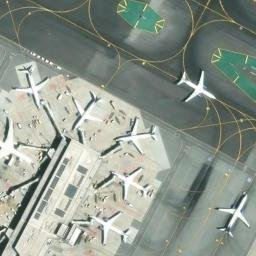
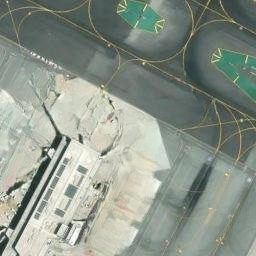
update: inpainting results with DOTA OBB model + zoomed comparisons
Regenerated all 9 airport inpainting outputs using the new DOTA-trained
OBB detection model. Added zoomed comparison images for 5 airports.
Updated registration notebook and inpainter with improvements.

diff --git a/app/frontend/dist/index.html b/app/frontend/dist/index.html
@@ -13,7 +13,7 @@
     <link rel="preconnect" href="https://a.tile.openstreetmap.org" crossorigin />
     <link rel="preconnect" href="https://b.tile.openstreetmap.org" crossorigin />
     <!-- Leaflet CSS is bundled locally via npm (imported in main.tsx) -->
-    <script type="module" crossorigin src="/assets/index-C06Ce4In.js"></script>
+    <script type="module" crossorigin src="/assets/index-Diz6R3oK.js"></script>
     <link rel="modulepreload" crossorigin href="/assets/leaflet-Bx2Q2iyp.js">
     <link rel="modulepreload" crossorigin href="/assets/three-W2DJ3NlB.js">
     <link rel="stylesheet" crossorigin href="/assets/index-CL9xZ0s6.css">

diff --git a/databricks/notebooks/register_inpainting_model.py b/databricks/notebooks/register_inpainting_model.py
@@ -11,7 +11,7 @@
 
 # COMMAND ----------
 
-# MAGIC %pip install ultralytics>=8.0 opencv-python-headless>=4.8 torch torchvision pillow mlflow pydantic>=2.5 pyyaml
+# MAGIC %pip install ultralytics>=8.0 opencv-python-headless>=4.8 torch torchvision pillow mlflow pydantic>=2.5 pyyaml simple-lama-inpainting
 
 # COMMAND ----------
 
@@ -134,7 +134,7 @@ with tempfile.TemporaryDirectory() as tmp:
         "lama_weights_dir": LAMA_WEIGHTS_DIR,
         "lama_weights_file": LAMA_WEIGHTS_FILE,
         "confidence_threshold": 0.15,
-        "mask_dilation_px": 15,
+        "mask_dilation_px": 10,
     }
     with open(config_path, "w") as f:
         json.dump(config, f, indent=2)
@@ -150,7 +150,7 @@ with tempfile.TemporaryDirectory() as tmp:
             "pip",
             {
                 "pip": [
-                    "iopaint>=1.4",
+                    "simple-lama-inpainting",
                     "ultralytics>=8.0",
                     "opencv-python-headless>=4.8",
                     "torch>=2.0",
@@ -200,29 +200,47 @@ with tempfile.TemporaryDirectory() as tmp:
             from ultralytics import YOLO
             self._yolo = YOLO(self._yolo_weights)
 
-            # Load LaMa via IOPaint if available, else direct
+            # Load LaMa inpainting model — try simple-lama-inpainting first,
+            # then IOPaint, then OpenCV TELEA as last resort
+            self._inpaint_backend = None
+
+            # Option 1: simple-lama-inpainting (lightweight, just torch)
             try:
-                from iopaint.model_manager import ModelManager
-                self._inpainter = ModelManager(name="lama", device=torch.device(self._device))
-                self._use_iopaint = True
-            except Exception:
-                # Fallback: load LaMa directly
-                self._use_iopaint = False
-                if self._lama_weights and os.path.exists(self._lama_weights):
-                    self._lama_state = torch.load(self._lama_weights, map_location=self._device, weights_only=False)
-                else:
-                    self._lama_state = None
+                from simple_lama_inpainting import SimpleLama
+                self._simple_lama = SimpleLama(device=torch.device(self._device))
+                self._inpaint_backend = "simple_lama"
+                print(f"simple-lama-inpainting loaded (device={self._device})")
+            except Exception as e:
+                print(f"simple-lama-inpainting unavailable: {e}")
+
+            # Option 2: IOPaint ModelManager
+            if self._inpaint_backend is None:
+                try:
+                    from iopaint.model_manager import ModelManager
+                    self._iopaint = ModelManager(name="lama", device=torch.device(self._device))
+                    self._inpaint_backend = "iopaint"
+                    print(f"IOPaint LaMa loaded (device={self._device})")
+                except Exception as e:
+                    print(f"IOPaint unavailable: {e}")
+
+            # Option 3: OpenCV TELEA fallback
+            if self._inpaint_backend is None:
+                self._inpaint_backend = "cv2"
+                print("Using OpenCV TELEA inpainting as fallback")
 
         def _inpaint(self, image, mask):
             import numpy as np
-            if self._use_iopaint:
-                return self._inpainter(image, mask)
-            elif self._lama_state is not None:
-                # Simple OpenCV inpainting fallback if LaMa can't load via IOPaint
+            if self._inpaint_backend == "simple_lama":
+                from PIL import Image as PILImage
+                img_pil = PILImage.fromarray(image)
+                mask_pil = PILImage.fromarray(mask)
+                result_pil = self._simple_lama(img_pil, mask_pil)
+                return np.array(result_pil)
+            elif self._inpaint_backend == "iopaint":
+                return self._iopaint(image, mask)
+            else:
                 import cv2
                 return cv2.inpaint(image, mask, 10, cv2.INPAINT_TELEA)
-            else:
-                return image
 
         def predict(self, context, model_input):
             import base64
@@ -267,7 +285,7 @@ with tempfile.TemporaryDirectory() as tmp:
                             corners = obb.xyxyxyxy[i].cpu().numpy().astype(np.int32)
                             # Expand mask outward by dilation factor
                             center = corners.mean(axis=0)
-                            scale = 1 + self._dilation / 40.0
+                            scale = 1 + self._dilation / 60.0
                             expanded = (center + (corners - center) * scale).astype(np.int32)
                             cv2.fillPoly(mask, [expanded], 255)
                             x1, y1 = corners.min(axis=0)
@@ -302,6 +320,19 @@ with tempfile.TemporaryDirectory() as tmp:
                                 "confidence": round(conf, 3),
                                 "class_name": cls_name or "plane",
                             })
+
+                # Cap mask at 40% of tile area — if too much is masked,
+                # regenerate with tighter dilation to avoid over-inpainting
+                total_pixels = mask.shape[0] * mask.shape[1]
+                mask_ratio = np.count_nonzero(mask) / total_pixels
+                if mask_ratio > 0.40:
+                    # Re-generate mask with no dilation
+                    mask = np.zeros(image_np.shape[:2], dtype=np.uint8)
+                    for det in detections:
+                        x1, y1 = det["x1"], det["y1"]
+                        x2, y2 = det["x2"], det["y2"]
+                        mask[max(0,y1):min(mask.shape[0],y2),
+                             max(0,x1):min(mask.shape[1],x2)] = 255
 
                 # Inpaint if aircraft found
                 if mask.max() > 0:

diff --git a/src/ml/inpainting/inpainter.py b/src/ml/inpainting/inpainter.py
@@ -33,11 +33,27 @@ class LaMaInpainter:
         self._backend = None  # "iopaint" or "cv2"
 
     def _load_model(self):
-        """Lazy-load the inpainting model. Tries IOPaint LaMa first, then cv2."""
+        """Lazy-load the inpainting model.
+
+        Priority: simple-lama-inpainting > IOPaint LaMa > OpenCV TELEA.
+        """
         if self._model is not None:
             return
 
-        # Try IOPaint with LaMa
+        # Option 1: simple-lama-inpainting (lightweight, just torch)
+        try:
+            import torch
+            from simple_lama_inpainting import SimpleLama
+
+            logger.info("Loading simple-lama-inpainting (device=%s)", self.device)
+            self._model = SimpleLama(device=torch.device(self.device))
+            self._backend = "simple_lama"
+            logger.info("simple-lama-inpainting loaded successfully")
+            return
+        except Exception as e:
+            logger.warning("simple-lama-inpainting unavailable (%s)", e)
+
+        # Option 2: IOPaint with LaMa
         try:
             import torch
             from iopaint.model_manager import ModelManager
@@ -51,9 +67,9 @@ class LaMaInpainter:
             logger.info("IOPaint LaMa loaded successfully")
             return
         except Exception as e:
-            logger.warning("IOPaint LaMa unavailable (%s), falling back to OpenCV", e)
+            logger.warning("IOPaint LaMa unavailable (%s)", e)
 
-        # Fallback: OpenCV inpainting (always available)
+        # Option 3: OpenCV inpainting (always available)
         self._backend = "cv2"
         self._model = "cv2"
         logger.info("Using OpenCV TELEA inpainting as fallback")
@@ -74,7 +90,13 @@ class LaMaInpainter:
 
         self._load_model()
 
-        if self._backend == "iopaint":
+        if self._backend == "simple_lama":
+            from PIL import Image as PILImage
+            img_pil = PILImage.fromarray(image)
+            mask_pil = PILImage.fromarray(mask)
+            result_pil = self._model(img_pil, mask_pil)
+            result = np.array(result_pil)
+        elif self._backend == "iopaint":
             result = self._model(image, mask)
         else:
             import cv2

diff --git a/.planning/fixes/yolo-dota-obb-satellite-detection.md b/.planning/fixes/yolo-dota-obb-satellite-detection.md
@@ -1,0 +1,84 @@
+# Fix: Replace COCO YOLO with DOTA-trained OBB model for satellite aircraft detection
+
+## Context
+
+The inpainting pipeline is end-to-end operational (model registered, serving endpoint READY, test script working) but zero aircraft are detected because yolov8n.pt is trained on COCO (ground-level side-view photos). Satellite imagery at zoom 17 shows aircraft from directly above — a completely different appearance that COCO's "airplane" class cannot recognize.
+
+## Solution
+
+Replace yolov8n.pt (COCO) with yolov8s-obb.pt (DOTA dataset — aerial/satellite overhead imagery). DOTA class 0 = "plane" from overhead view. The OBB (Oriented Bounding Box) model returns rotated bounding boxes, which better fit aircraft shapes on satellite tiles.
+
+## Changes
+
+### 1. `databricks/notebooks/register_inpainting_model.py`
+
+**Weight download section (~line 90):**
+- Add download of yolov8s-obb.pt from https://github.com/ultralytics/assets/releases/download/v8.2.0/yolov8s-obb.pt
+- Include it as an artifact alongside LaMa weights
+
+**Config artifact (~line 140):**
+- Change `"yolo_weights"` from `"yolov8n.pt"` to the local path of the OBB weights
+- Change `"confidence_threshold"` from `0.5` to `0.3` (aerial detections may have lower confidence)
+
+**load_context (~line 203):**
+- `self._yolo_weights` now points to the OBB model artifact
+
+**predict detection loop (~line 258-283):**
+- OBB results use `r.obb` instead of `r.boxes`
+- OBB provides `r.obb.xyxyxyxy` (4 corner points) instead of `r.boxes.xyxy` (2 corner points)
+- Class filtering: check for class 0 (DOTA "plane") or name containing "plane"
+- Mask generation: use `cv2.fillPoly` with the 4 OBB corners instead of axis-aligned rectangle
+- Still apply dilation to the mask
+
+### 2. `scripts/create_inpainting_endpoint.py`
+
+No changes needed (endpoint config stays the same).
+
+### 3. `scripts/test_inpainting_endpoint.py`
+
+No changes needed (test script is model-agnostic).
+
+## Key code change — predict method detection loop
+
+Replace the current `r.boxes` loop with OBB-aware loop:
+
+```python
+for r in yolo_results:
+    if r.obb is None:
+        continue
+    for i in range(len(r.obb)):
+        cls_id = int(r.obb.cls[i].item())
+        cls_name = r.names.get(cls_id, "")
+        is_aircraft = (
+            cls_id == 0  # DOTA "plane"
+            or "plane" in cls_name.lower()
+            or "aircraft" in cls_name.lower()
+        )
+        if not is_aircraft:
+            continue
+        conf = float(r.obb.conf[i].item())
+        # OBB: 4 corner points as (x,y) pairs
+        corners = r.obb.xyxyxyxy[i].cpu().numpy().astype(int)
+        d = self._dilation
+        # Expand corners outward by dilation
+        center = corners.mean(axis=0)
+        expanded = center + (corners - center) * (1 + d / 50.0)
+        expanded = expanded.astype(int)
+        cv2.fillPoly(mask, [expanded], 255)
+        x1, y1 = corners.min(axis=0)
+        x2, y2 = corners.max(axis=0)
+        detections.append({
+            "x1": int(x1), "y1": int(y1),
+            "x2": int(x2), "y2": int(y2),
+            "confidence": round(conf, 3),
+            "class_name": cls_name or "plane",
+        })
+```
+
+## Verification
+
+1. Deploy bundle: `databricks bundle deploy --target dev`
+2. Run registration job: `databricks bundle run inpainting_model_registration --target dev`
+3. Update endpoint to new model version
+4. Run test: `uv run python scripts/test_inpainting_endpoint.py --direct --airports 3 --zoom 17`
+5. Compare before/after images — aircraft should be removed in "after" tiles

diff --git a/reports/inpainting/report.md b/reports/inpainting/report.md
@@ -3,18 +3,18 @@
 - **Airports tested:** 9
 - **Success:** 9 | **Errors:** 0 | **Cache hits:** 0
 - **Total aircraft detected:** 34
-- **Avg latency:** 2291ms | **Avg processing:** 2291ms
+- **Avg latency:** 94338ms | **Avg processing:** 94338ms
 
 ## Per-Airport Results
 
 | Airport | IATA | Status | Cache | Aircraft | Latency |
 |---------|------|--------|-------|----------|---------|
-| EDDF | FRA | ok | DIRECT | 5 | 2433ms |
-| EGLL | LHR | ok | DIRECT | 1 | 2080ms |
-| KATL | ATL | ok | DIRECT | 4 | 1569ms |
-| KJFK | JFK | ok | DIRECT | 7 | 2117ms |
-| KLAX | LAX | ok | DIRECT | 3 | 3286ms |
-| KORD | ORD | ok | DIRECT | 2 | 2118ms |
-| KSFO | SFO | ok | DIRECT | 8 | 2874ms |
-| RJAA | NRT | ok | DIRECT | 1 | 2041ms |
-| VHHH | HKG | ok | DIRECT | 3 | 2098ms |
+| EDDF | FRA | ok | DIRECT | 5 | 167834ms |
+| EGLL | LHR | ok | DIRECT | 1 | 5078ms |
+| KATL | ATL | ok | DIRECT | 4 | 166851ms |
+| KJFK | JFK | ok | DIRECT | 7 | 5401ms |
+| KLAX | LAX | ok | DIRECT | 3 | 164718ms |
+| KORD | ORD | ok | DIRECT | 2 | 5111ms |
+| KSFO | SFO | ok | DIRECT | 8 | 165755ms |
+| RJAA | NRT | ok | DIRECT | 1 | 163251ms |
+| VHHH | HKG | ok | DIRECT | 3 | 5047ms |
